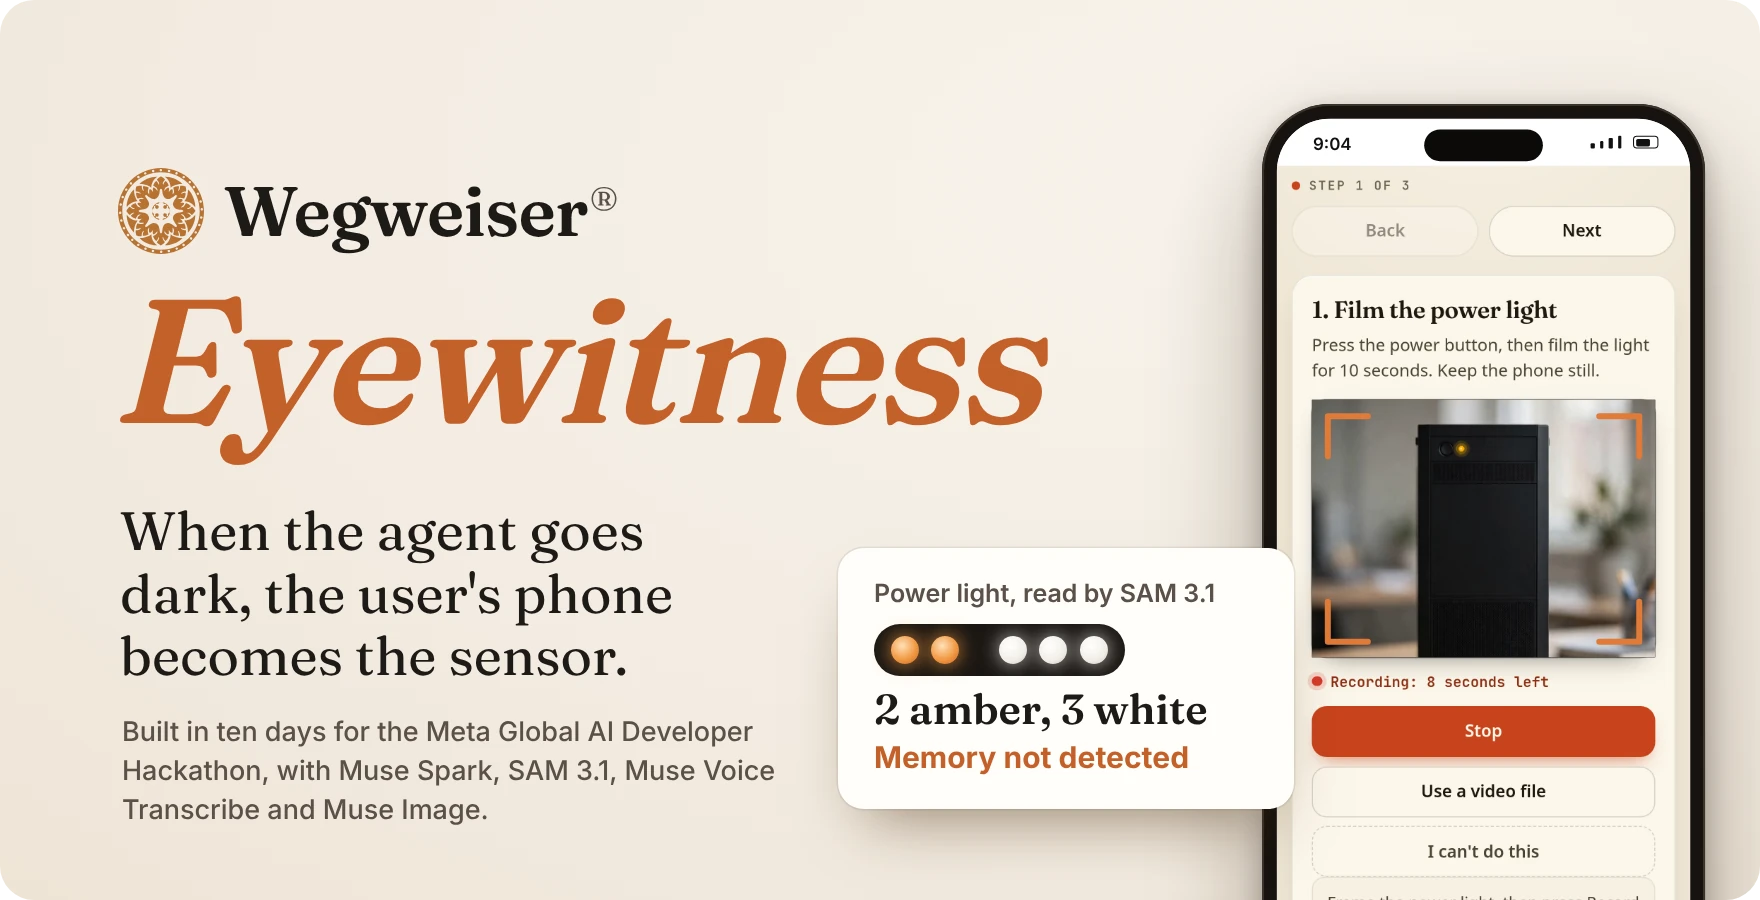
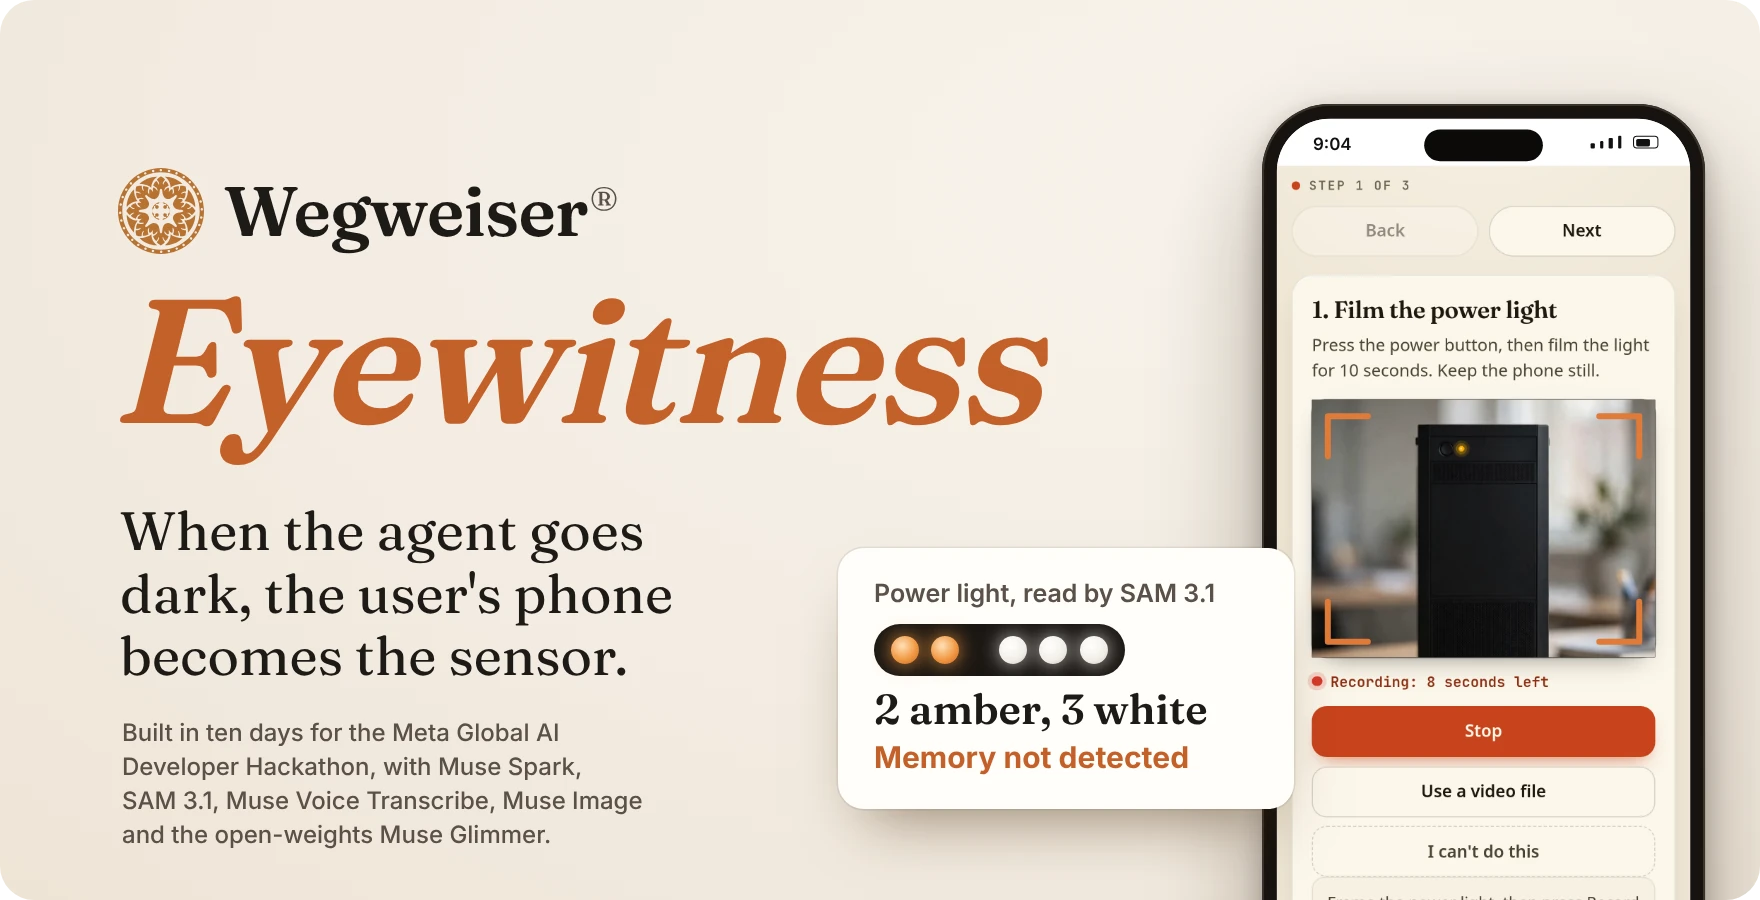
eyewitness: the README shows the readers on your own hardware
A section with the settings choice, the panel's "Read on your hardware
by Muse Glimmer" lines and the phone's waiting sentence, the times
measured on staging with a fresh ticket, and a link to the on-prem
guide. Muse Glimmer joins the models table and the header, the build
table and the phases list name Phase 6, and the test count says 118.

Changed region(s): [[0.0625, 0.7778, 0.4375, 0.9333]]

diff --git a/README.md b/README.md
@@ -92,7 +92,7 @@ sequenceDiagram
 
 <img src="eyewitness/docs/assets/readme-sam.webp" alt="SAM 3.1 tracking the power light on a PC in a video, with a magnified view of the light, a timeline of the flashes counted in code, and the result: Dell power light code, two amber and three white, memory not detected." width="100%">
 
-Eyewitness uses four Meta models, each for one job. A capture reaches a paid model only after it passes a free quality check, and counting is left to code.
+Eyewitness uses four Meta models in the cloud, each for one job, and Meta's open-weights Muse Glimmer for teams that keep evidence on their own hardware. A capture reaches a model only after it passes a free quality check, and counting is left to code.
 
 | Model | Its job in Eyewitness | Measured |
 |---|---|---|
@@ -100,6 +100,7 @@ Eyewitness uses four Meta models, each for one job. A capture reaches a paid mod
 | **SAM 3.1**<br>`sam-3.1` | Follows a blinking light through a clip from a point prompt, and finds screens and labels in photos | A 12 second clip of 120 frames cost $0.024, and code counted two amber flashes and three white |
 | **Muse Voice Transcribe**<br>`muse-voice-transcribe-1.0` | Voice notes in 25 languages, for a customer who can't take a photo | About $0.0025 a note, with Spark's summary |
 | **Muse Image**<br>`muse-image-1.0` | The illustrated panels in the film, and guide photos marked up for a customer once a technician approves them | $0.01 an image |
+| **Muse Glimmer**<br>`muse-glimmer`, open weights | Every read for a tenant that keeps evidence on its own network: the intake, screens, labels and the light's keyframes | 65 s for the crash screen on an 8 GB RTX 3050, at no cost |
 
 A whole ticket, with an intake read, a screen photo, a light video and a voice note, came to **$0.0357** in the evaluation. Every call is cached and its cost logged in dollars. A daily cap, $5 by default, stops spending if something loops.
 
@@ -111,6 +112,25 @@ A whole ticket, with an intake read, a screen photo, a light video and a voice n
 The Phase 1 spike spent **$0.0384** of a $1.00 cap, on inputs made on this machine: a blue screen and a sticker drawn with Pillow, and a blink clip made with Pillow and ffmpeg. No customer photo was used. List prices as checked on 26 Oct 2026: Spark $1.25 and $4.25 per million input and output tokens, SAM 3.1 $2.50 per 1,000 images and $0.20 per 1,000 video frames (50 frames at least), Voice Transcribe $0.18 an hour, Muse Image $0.01 an image. SAM's concept prompts alone did not find the small light again from run to run, so a point prompt on the spot that code finds does the tracking. Full scores are in [the evaluation note](eyewitness/docs/eval.md).
 
 </details>
+
+## On your own hardware
+
+<img src="eyewitness/docs/assets/readme-local.webp" alt="The settings choice Your own hardware (Muse Glimmer) selected, the technician panel with Read on your hardware by Muse Glimmer in 51 s and in 1 min 5 s, and the phone page saying: Checking this on your support company's own server. It can take a couple of minutes." width="100%">
+
+Some support companies can't let a customer's photos leave their own network. In the technician settings, a tenant can move every read to Muse Glimmer, Meta's open-weights model (27.9B, Apache 2.0), on a server the company runs itself. Any OpenAI-compatible host will do: Ollama, llama.cpp, vLLM or a partner.
+
+- **Nothing falls back to the cloud.** For a tenant on its own hardware, no evidence and no ticket text reaches the Meta Model API, even when the local server is down. The capture is then kept for the technician, and a test holds that line for the intake and every reader.
+- **Code finds the light, and voice stays as audio.** SAM runs only in the cloud, so code finds the blinking light and counts it, and Glimmer describes three keyframes. Glimmer takes no audio, so a voice note is kept for the technician to hear.
+
+Measured on staging with a fresh ticket, with Glimmer on a desktop with an 8 GB RTX 3050 and a Ryzen 5 5600X:
+
+| Read on Muse Glimmer | Time | Cost |
+|---|---|---|
+| The intake's decision on the ticket | 71 s | $0 |
+| The power light video, with its keyframes described | 52 s | $0 |
+| The photo of the crash screen, with `MEMORY_MANAGEMENT (0x1A)` read | 65 s | $0 |
+
+The phone page tells the customer the check runs on their support company's own server, and waits for it. Setup for Ollama, llama.cpp and vLLM is in [the on-prem guide](eyewitness/docs/onprem.md).
 
 ## Security by design
 
@@ -145,7 +165,7 @@ Zendesk, Freshdesk, HaloPSA and ConnectWise are next, as connectors with the sam
 
 Everything in this repo was built between 26 October and 4 November 2026 for the Meta Global AI Developer Hackathon. Wegweiser itself, the monitoring platform with its helpdesk connector and triage, existed before the event and stays private.
 
-Seven end-to-end scenarios pass on a staging server with live Meta calls: a ticket by email, a ticket from the help button, a ticket pushed by the Zammad webhook, a request through the Evidence API, a blinking-light video, a voice note, and a sticky note that tries to instruct the AI. The media for the last three were made for the test and are marked synthetic.
+Eight end-to-end scenarios pass on a staging server with live model calls: a ticket by email, a ticket from the help button, a ticket pushed by the Zammad webhook, a request through the Evidence API, a blinking-light video, a voice note, a sticky note that tries to instruct the AI, and a ticket read on the tenant's own hardware by Muse Glimmer. The media for the blinking light, the voice note and the sticky note were made for the test and are marked synthetic.
 
 | Part | Built and tested |
 |---|---|
@@ -155,8 +175,9 @@ Seven end-to-end scenarios pass on a staging server with live Meta calls: a tick
 | Ticket notes | An internal note with fenced readings, injection flags and the Meta cost per ticket, and a customer note built from templates, both posted as HTML |
 | Helpdesks | Zammad built, with a signed push webhook and the poll as its fallback. Zendesk, Freshdesk, HaloPSA and ConnectWise as documented stubs |
 | Connectivity | Evidence API v1 with per-tenant keys, scopes and signed callbacks. The MCP server, and a Spark agent that works through it |
+| Own hardware | A per-tenant choice to read with Muse Glimmer on the company's own server, through any OpenAI-compatible host, with no fallback to the cloud |
 | Safety | The outgoing filter, the untrusted fence, upload sniffing, expiring scoped links, rate limits, a daily cost cap and a retention sweep for capture files |
-| Tests | 94 tests with no database and no paid calls, plus `eyewitness/tools/e2e_staging.py` for the staging scenarios |
+| Tests | 118 tests with no database and no paid calls, plus `eyewitness/tools/e2e_staging.py` for the staging scenarios |
 
 <details>
 <summary><strong>The five phases</strong></summary>
@@ -167,6 +188,7 @@ Seven end-to-end scenarios pass on a staging server with live Meta calls: a tick
 - **Phase 4 (done, 28 Oct 2026):** the reader evaluation over the golden set and the synthetic set, the phone page working one step at a time, and the demo kit.
 - **Phase 5 (done, 28 Oct 2026):** the connectivity layer: a signed Zammad push webhook, the Evidence API with keys and signed callbacks, and an MCP server that a Muse Spark agent works through.
 - **Polish (29 Oct 2026):** the phone page in Wegweiser's own style, the ticket notes set out as HTML, and the demo film.
+- **Phase 6 (done, 29 Oct 2026):** readers on the tenant's own hardware with Muse Glimmer, Meta's open-weights model.
 
 </details>
 
@@ -180,7 +202,7 @@ The six panels in the film were drawn by Muse Image (`muse-image-1.0`) at one ce
 
 - Zendesk, Freshdesk, HaloPSA and ConnectWise connectors, on the same connector shape that Zammad uses.
 - Live video assist, for a capture that needs a person at both ends.
-- Readers that run on the support company's side, with no call out.
+- Voice notes and light tracking on the support company's own hardware too, with an open transcription model and SAM's open weights, so a tenant on its own hardware loses nothing.
 - Evidence scores across clients, so a team can see which requests come back unusable.
 
 ## Architecture
@@ -205,10 +227,11 @@ On publishing, `eyewitness/README.md` becomes this repo's root `README.md` and `
 ├── app/static/js/eyewitness/        # capture flow and panel behaviour
 ├── app/static/css/eyewitness/       # the phone page in Wegweiser's paper theme
 ├── migrations/versions/             # eyewitness_20261027, eyewitness_retention_20261028,
-│                                    # eyewitness_api_20261029
-├── tests/eyewitness/                # 94 tests: no database, no paid calls
+│                                    # eyewitness_api_20261029, eyewitness_onprem_20261029
+├── tests/eyewitness/                # 118 tests: no database, no paid calls
 └── eyewitness/
-    ├── docs/                        # architecture, integration, connectors, API, evaluation
+    ├── docs/                        # architecture, integration, connectors, API, evaluation,
+    │                                # the on-prem guide and its Modelfile
     │   └── assets/                  # the images on this page
     ├── mcp/                         # the MCP server and the Muse Spark agent demo
     ├── demo/                        # storyboard, panel prompts, overlays, recorders
@@ -219,7 +242,7 @@ Run the tests from a Wegweiser checkout with its dependencies installed:
 
 ```bash
 python -m pytest tests/eyewitness -q
-# 94 passed
+# 118 passed
 ```
 
 ## Credits
